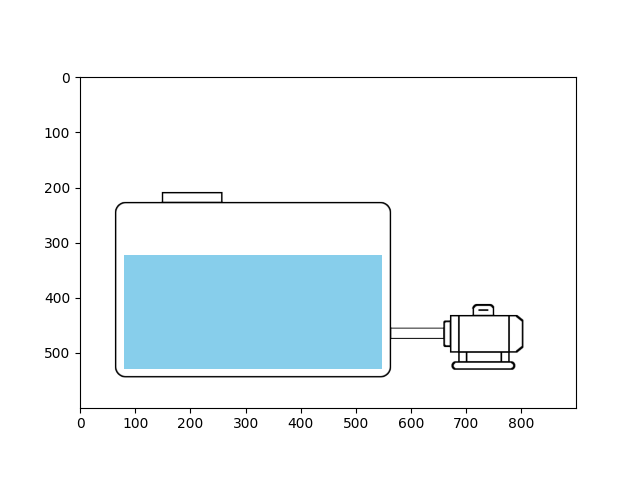
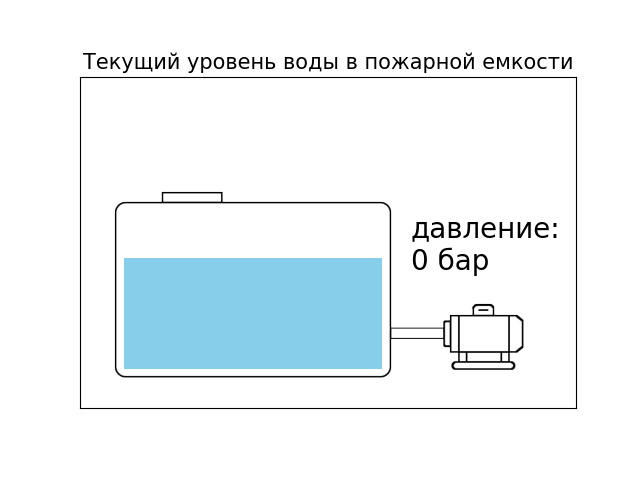
допилил графики практически

diff --git a/service/plots.py b/service/plots.py
@@ -1,11 +1,18 @@
+from datetime import date
 from matplotlib.axes import Axes
 from matplotlib.patches import Rectangle
 import matplotlib.pyplot as plt
+import matplotlib.dates as mdates
 import numpy as np
 from PIL import Image
+from sqlalchemy import Sequence
+
+from db.models import Pressure, WaterLevel
 
 
-def plot_current_level(level: int | float, pump: bool, pressure: float):
+def plot_current_level(level: int | float, pump: int, pressure: float):
+    pressure = 0 if pressure <= 0 else pressure
+
     def draw_water(axes: Axes, level: int | float):
         width = 467
         level *= 2.8
@@ -18,15 +25,48 @@ def plot_current_level(level: int | float, pump: bool, pressure: float):
         )
         axes.add_patch(water)
 
-    def draw_pressure(axes: Axes, pressure: float, pump: bool):
-        if pump or pressure > 0.4:
-            axes.text()
-        else:
-            axes.text()
+    def top_text(axes: Axes, pump: int):
+        s = ""
+        match pump:
+            case 1:
+                s = "работает насос!"
+            case 3:
+                s = "низкое давление!"
+        axes.text(100, 150, s, fontsize=30, color="red")
 
     plt.clf()
     fig, axes = plt.subplots()
     img = np.asarray(Image.open("media/curr_bg.png"))
     axes.imshow(img)
     draw_water(axes, level)
-    plt.savefig("media/current_level.png")
+    axes.text(600, 350, f"давление:\n{round(pressure, 2)} бар", fontsize=20)
+    top_text(axes, pump)
+    plt.title("Текущий уровень воды в пожарной емкости", fontsize=15)
+    plt.xticks([])
+    plt.yticks([])
+    fig.savefig("media/current_level.png")
+
+
+def plot_archive_levels(
+    levels: Sequence[WaterLevel],
+    pressures: Sequence[Pressure],
+    clicked_date: date,
+):
+    x_levels = np.array([level.dttm for level in levels])
+    y_levels = np.array([level.value for level in levels])
+
+    x_pressures = np.array([pressure.dttm for pressure in pressures])
+    y_pressures = np.array([0 if pressure.value <=0 else pressure.value for pressure in pressures])
+
+    fig, axes = plt.subplots(2, 1, sharex=True)
+    fig.suptitle(f"{clicked_date.isoformat}")
+    date_format = mdates.DateFormatter('%H:%M')
+    axes[1].xaxis.set_major_formatter(date_format)
+    axes[0].set_ylim(0, 100)
+    axes[1].set_ylim(0, 7)
+    axes[0].set_title('Уровень воды в емкости')
+    axes[1].set_title('Давление воды в системе')
+
+    axes[0].plot(x_levels, y_levels, marker='.')
+    axes[1].plot(x_pressures, y_pressures)
+    fig.savefig("media/archive_data.png")

diff --git a/handlers.py b/handlers.py
@@ -1,14 +1,14 @@
-from datetime import datetime, timedelta
+from datetime import date, datetime, timedelta
 
 from aiogram.types import CallbackQuery, Message
 from aiogram_dialog import ChatEvent, DialogManager
 from aiogram_dialog.widgets.kbd import ManagedCalendar
-from sqlalchemy import select
+from sqlalchemy import func, select
 from sqlalchemy.ext.asyncio.session import AsyncSession
 
 from config import settings
 from db.models import Pressure, PumpCondition, User, WaterLevel
-from service.plots import plot_current_level
+from service.plots import plot_archive_levels, plot_current_level
 from states import MainSG
 
 
@@ -48,10 +48,23 @@ async def on_current_level(callback: CallbackQuery, button, manager: DialogManag
 
 
 async def on_date_clicked(
-    callback: ChatEvent,
+    callback: CallbackQuery,
     widget: ManagedCalendar,
     manager: DialogManager,
-    clicked_date: datetime.date,
+    clicked_date: date,
     /,
 ):
-    pass
+    session: AsyncSession = manager.middleware_data["session"]
+    query = select(WaterLevel).where(func.date(WaterLevel.dttm) == clicked_date.isoformat())
+    levels = await session.scalars(query)
+    levels = levels.all()
+    query = select(Pressure).where(func.date(Pressure.dttm) == clicked_date.isoformat())
+    pressures = await session.scalars(query)
+    pressures = pressures.all()
+
+    if levels or pressures:
+        plot_archive_levels(levels, pressures, clicked_date)
+        await manager.switch_to(MainSG.archive)
+    else:
+        await callback.answer('Данных нет', show_alert=True)
+    

diff --git a/dialogs.py b/dialogs.py
@@ -42,7 +42,7 @@ main = Dialog(
         state=MainSG.calendar
     ),
     Window(
-        StaticMedia(path='media/l_history.png', type=ContentType.PHOTO),
+        StaticMedia(path='media/archive_data.png', type=ContentType.PHOTO),
         SwitchTo(Const('Назад'), id='to_main', state=MainSG.main),
         state=MainSG.archive
     )
